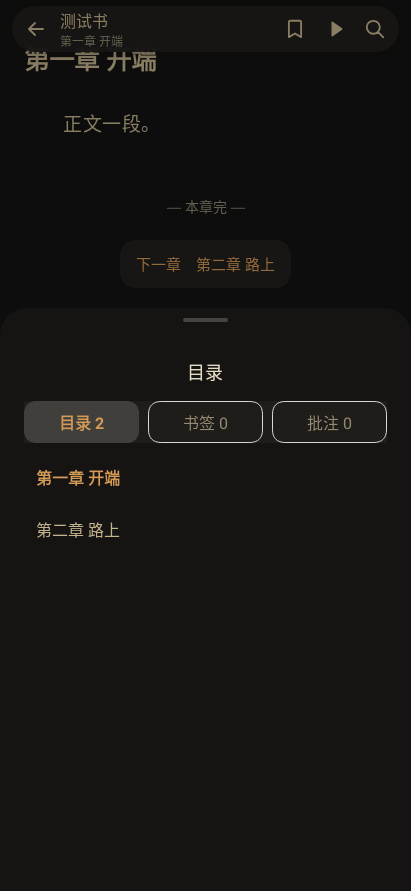
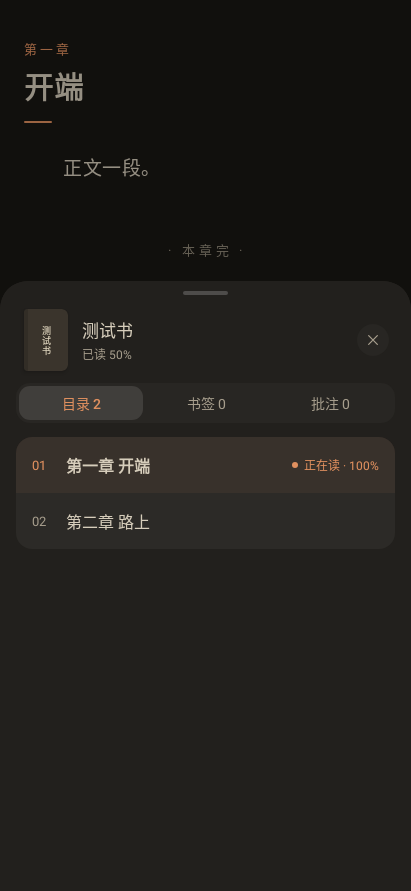
Include night UI captures for direct review

diff --git a/docs/screenshots/README.md b/docs/screenshots/README.md
@@ -1,0 +1,8 @@
+# 夜间阅读界面
+
+以下图片由 Robolectric SDK 36 的 `NightReaderSheetUiTest` 从测试书渲染生成，展示夜间目录和外观面板；它们是自动化界面截图，不代表真机实拍。
+
+- [夜间目录](night-catalog.png)
+- [夜间外观设置](night-typography.png)
+
+CI 同时把两张原始 PNG 上传为 `LingYueReader-night-ui` 工件。
